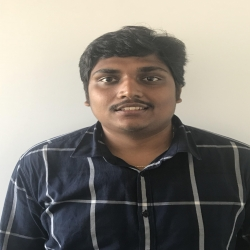
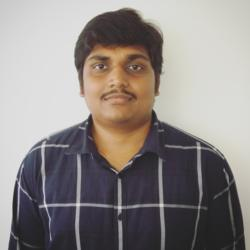
Updated Profile pic in about page: Sharath Parsam (#233)
* Updated Profile pic in about page: Sharath Parsam

* Updated profile desc in about page: Sharath Parsam

* Updated description for Guillaume in the /about section

* Opensource Watchmen post

* Changed cevo_team logo back to orange.

* Shrunk team_cevo image size. Darkened <hr> for blog post content.

diff --git a/static/css/post.css b/static/css/post.css
@@ -8,6 +8,10 @@
 		margin-top: 40px;
 	}
 
+	hr {
+	  border-top: 1px solid #ccc;
+	}
+
 	.draft {
 		background-color: lightblue;
 	}

diff --git a/content/about.md b/content/about.md
@@ -313,7 +313,7 @@ people:
   - name: Sharath Parsam S
     sort: 2018-01-22
     position: Software Developer
-    desc: Sharath is an experienced agile technologist, presuming his interests as a software developer and strives towards learning new technologies, skills and adapting to new environments. He is good in architecting inventive solutions in line with project requirements. He has an engaging communication skill in building positive relationships with both business and technical audiences.
+    desc: Sharath is an experienced agile technologist. He strives toward learning new technologies, skills and adapting to new environments. His strength is in architecting inventive solutions aligned with business goals. He values building positive relationships with both business and technical audiences.
     avatar: Sharath_Parsam.jpg
     socials:
       - icon_class: fa-linkedin
@@ -367,7 +367,7 @@ people:
   - name: Guillaume Genevrier
     sort: 2018-01-22
     position: Software Engineer
-    desc: Guillaume had exposure to both system engineering and software development. He had opportunity to work with different teams as a lead where his communication skills allowed him to gradually implemented agile methodology, focusing on rapid delivery and reliability. He joined Cevo to extend his Devop skillset and to learn better agile practices.
+    desc: Guillaume has had exposure to both systems engineering and software development. He has led different teams where his communication skills allowed him to gradually implement agile methodologies that focus on rapid delivery and reliability. He joined Cevo to extend his DevOps skillset and to enhance his toolbox of agile practices.
     avatar: guillaume_genevrier.jpg
     socials:
       - icon_class: fa-linkedin
